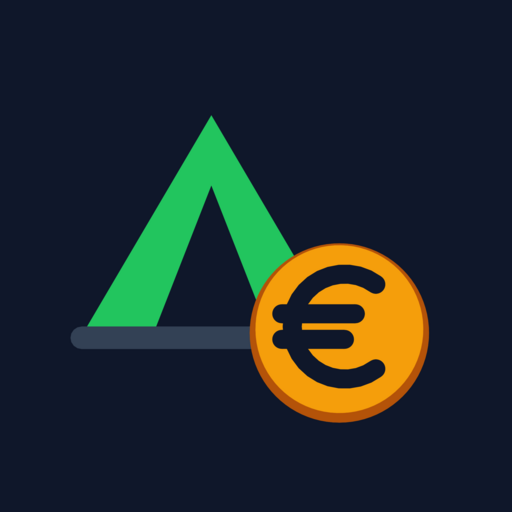
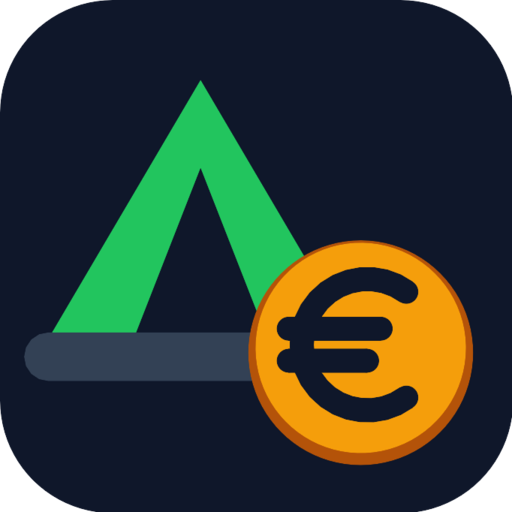
improve image, display it near the app name

diff --git a/src/App.tsx b/src/App.tsx
@@ -33,7 +33,10 @@ export default function App() {
   return (
     <main className="app">
       <header className="app__header">
-        <h1 className="app__title">{t.app.title}</h1>
+        <div className="app__brand">
+          <img className="app__logo" src="/favicon.svg" alt="" width={32} height={32} />
+          <h1 className="app__title">{t.app.title}</h1>
+        </div>
         <p className="app__subtitle">{t.app.subtitle}</p>
         {session !== null && (
           <p className="app__session">

diff --git a/src/App.css b/src/App.css
@@ -16,6 +16,18 @@
   text-align: center;
 }
 
+.app__brand {
+  display: flex;
+  align-items: center;
+  justify-content: center;
+  gap: var(--space-2);
+}
+
+.app__logo {
+  width: 2rem;
+  height: 2rem;
+}
+
 .app__title {
   margin: 0;
   font-size: 1.875rem;
